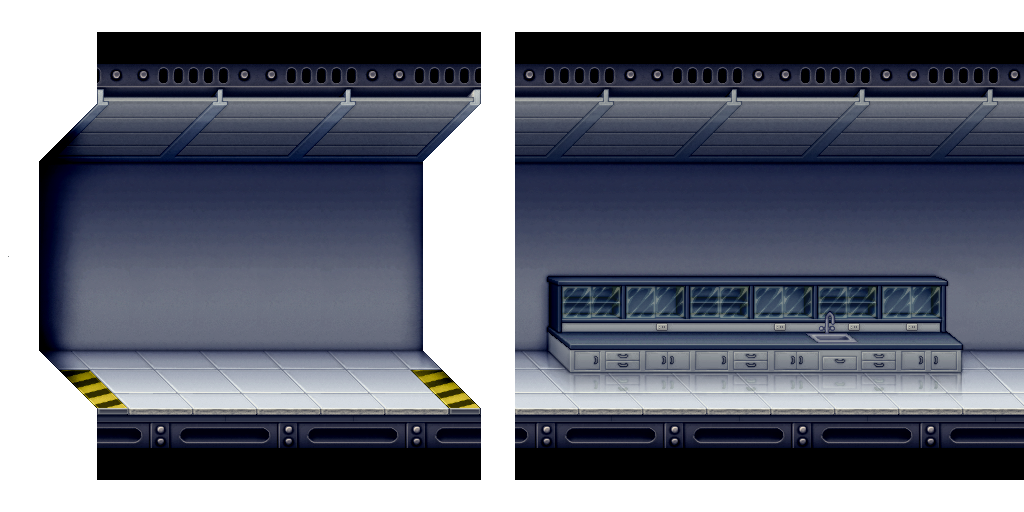
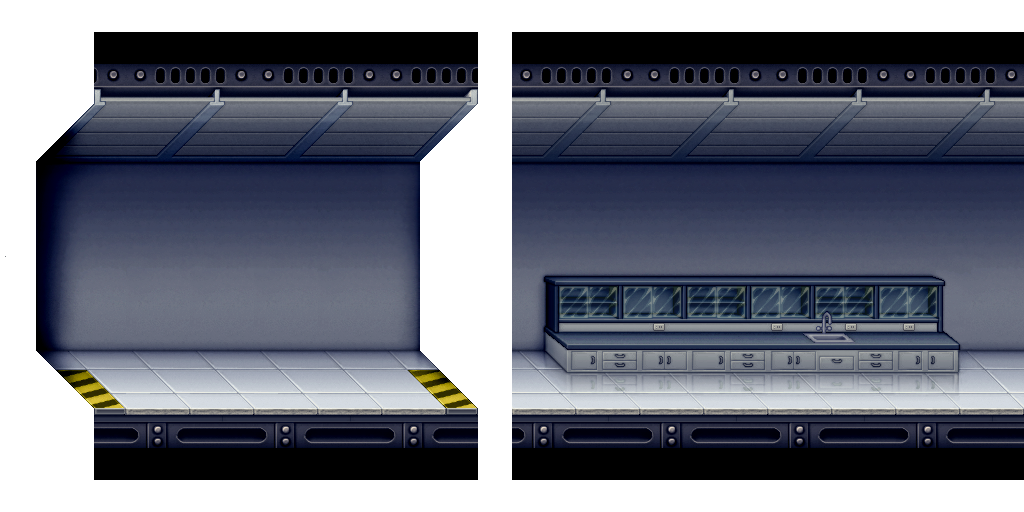
feat: optimize background rendering

diff --git a/src/BackgroundRenderer.cpp b/src/BackgroundRenderer.cpp
@@ -8,6 +8,7 @@ void BackgroundRenderer::Start() {
   currentRoomIndex = 0;
   activePatches.emplace_back(rooms[currentRoomIndex].getStartPatch(), 0,
                              transform.position.y);
+  currentLength = activePatches.back().sprite.getGlobalBounds().width;
 }
 
 BackgroundRenderer::BackgroundRenderer(const std::string& name,
@@ -42,21 +43,23 @@ void BackgroundRenderer::Update() {
             ? WORLD_WIDTH
             : activePatches.back().sprite.getPosition().x +
                   activePatches.back().sprite.getGlobalBounds().width;
-    if (currentRoomIndex < rooms.size()) {
+    if (currentLength < rooms[currentRoomIndex].roomLength) {
       activePatches.emplace_back(rooms[currentRoomIndex].getRandomMainPatch(),
                                  transform.position.x + newPatchX,
                                  transform.position.y);
+      currentLength += activePatches.back().sprite.getGlobalBounds().width;
     } else {
       // Handle room transition
       activePatches.emplace_back(rooms[currentRoomIndex].getEndPatch(),
                                  transform.position.x + newPatchX,
                                  transform.position.y);
-      currentRoomIndex = (currentRoomIndex + 1) % rooms.size();
+      currentRoomIndex = (rand() % (rooms.size() - 1)) + 1;
       activePatches.emplace_back(
           rooms[currentRoomIndex].getStartPatch(),
           transform.position.x + newPatchX +
               activePatches.back().sprite.getGlobalBounds().width - 128,
           transform.position.y);
+      currentLength = activePatches.back().sprite.getGlobalBounds().width;
     }
   }
 }

diff --git a/src/Game.cpp b/src/Game.cpp
@@ -57,13 +57,23 @@ int main() {
   // Initialize rooms
   std::vector<Room> rooms;
 
-  rooms.emplace_back("bgHallway0", sf::IntRect(0, 0, 3 * 128, 512),
+  rooms.emplace_back("bgStart", 128 * 4, sf::IntRect(0, 0, 4 * 128, 512),
+                     sf::IntRect(4 * 128, 0, 128, 512),
+                     std::vector<std::pair<sf::IntRect, float>>{});
+
+  rooms.emplace_back("bgHallway0", 128 * 20, sf::IntRect(0, 0, 3 * 128, 512),
                      sf::IntRect(3 * 128, 0, 128, 512),
                      std::vector<std::pair<sf::IntRect, float>>{
-                         {sf::IntRect(4 * 128, 0, 128, 512), 0.5f},
-                         {sf::IntRect(5 * 128, 0, 128, 512), 0.3f},
-                         {sf::IntRect(6 * 128, 0, 128, 512), 0.15f},
-                         {sf::IntRect(7 * 128, 0, 128, 512), 0.05f}});
+                         {sf::IntRect(4 * 128, 0, 128, 512), 0.4f},
+                         {sf::IntRect(5 * 128, 0, 128, 512), 0.4f},
+                         {sf::IntRect(6 * 128, 0, 128, 512), 0.1f},
+                         {sf::IntRect(7 * 128, 0, 128, 512), 0.1f}});
+
+  rooms.emplace_back("bgLab0", 128 * 20, sf::IntRect(0, 0, 128 * 2, 512),
+                     sf::IntRect(3 * 128, 0, 128, 512),
+                     std::vector<std::pair<sf::IntRect, float>>{
+                         {sf::IntRect(2 * 128, 0, 128, 512), 0.5f},
+                         {sf::IntRect(4 * 128, 0, 4 * 128, 512), 0.5f}});
 
   // Initialize background renderer
   auto backgroundRenderer =

diff --git a/src/Patch.cpp b/src/Patch.cpp
@@ -1,9 +1,9 @@
 #include "Patch.h"
 
-Patch::Patch(const sf::Texture& texture, const sf::IntRect& rect) {
-  sprite.setTexture(texture);
-  sprite.setTextureRect(rect);
-}
+Patch::Patch(const sf::Texture& texture,
+             const sf::IntRect& rect,
+             size_t layerIndex)
+    : layerIndex(layerIndex), sprite(texture, rect) {}
 
 const sf::Sprite& Patch::getSprite() const {
   return sprite;
@@ -11,6 +11,7 @@ const sf::Sprite& Patch::getSprite() const {
 
 ActivePatch::ActivePatch(const Patch& patchTemplate, float x, float y) {
   sprite = patchTemplate.getSprite();
+  layerIndex = patchTemplate.layerIndex;
   sprite.setPosition(x, y);
 }
 
@@ -23,5 +24,5 @@ bool ActivePatch::isOffScreen(float screenWidth) const {
 }
 
 void ActivePatch::Render(GameRenderer& renderer) const {
-  renderer.AddDrawable(0, &sprite);
+  renderer.AddDrawable(layerIndex, &sprite);
 }

diff --git a/src/Room.cpp b/src/Room.cpp
@@ -3,14 +3,16 @@
 #include "AssetManager.h"
 
 Room::Room(const std::string& atlasName,
+           float roomLength,
            const sf::IntRect& startRect,
            const sf::IntRect& endRect,
            const std::vector<std::pair<sf::IntRect, float>>& mainRects)
-    : startPatch(AssetManager::Instance().GetTexture(atlasName), startRect),
-      endPatch(AssetManager::Instance().GetTexture(atlasName), endRect) {
+    : roomLength(roomLength),
+      startPatch(AssetManager::Instance().GetTexture(atlasName), startRect, 0),
+      endPatch(AssetManager::Instance().GetTexture(atlasName), endRect, 1) {
   for (const auto& rect : mainRects) {
     mainPatches.emplace_back(AssetManager::Instance().GetTexture(atlasName),
-                             rect.first);
+                             rect.first, 0);
     probabilities.push_back(rect.second);
   }
 }

diff --git a/include/Patch.h b/include/Patch.h
@@ -6,8 +6,9 @@
 
 class Patch {
  public:
-  Patch(const sf::Texture& texture, const sf::IntRect& rect);
+  Patch(const sf::Texture& texture, const sf::IntRect& rect, size_t layerIndex);
   const sf::Sprite& getSprite() const;
+  size_t layerIndex;
 
  private:
   sf::Sprite sprite;
@@ -21,6 +22,7 @@ class ActivePatch {
   void Render(GameRenderer& renderer) const;
 
   sf::Sprite sprite;
+  size_t layerIndex;
 };
 
 #endif  // PATCH_H

diff --git a/src/AssetManager.cpp b/src/AssetManager.cpp
@@ -12,6 +12,9 @@ void AssetManager::LoadTexture(const std::string& name,
 void AssetManager::Initialize() {
   LoadTexture("barry", "assets/barry.png");
   LoadTexture("bgHallway0", "assets/bgHallway0.png");
+  LoadTexture("bgLab0", "assets/bgLab0.png");
+  LoadTexture("bgGlassTube0", "assets/bgGlassTube0.png");
+  LoadTexture("bgStart", "assets/bgStart.png");
 }
 
 sf::Texture& AssetManager::GetTexture(const std::string& name) {

diff --git a/include/Room.h b/include/Room.h
@@ -8,12 +8,15 @@
 class Room {
  public:
   Room(const std::string& atlasName,
+       float roomLength,
        const sf::IntRect& startRect,
        const sf::IntRect& endRect,
        const std::vector<std::pair<sf::IntRect, float>>& mainRects);
   const Patch& getStartPatch() const;
   const Patch& getEndPatch() const;
   const Patch& getRandomMainPatch() const;
+
+  float roomLength;
 
  private:
   Patch startPatch;

diff --git a/include/BackgroundRenderer.h b/include/BackgroundRenderer.h
@@ -22,6 +22,7 @@ class BackgroundRenderer : public GameObject {
   std::vector<Room> rooms;
   float scrollSpeed;
   size_t currentRoomIndex;
+  float currentLength;
 };
 
 #endif  // BACKGROUNDRENDERER_H

diff --git a/src/Engine/Animator.cpp b/src/Engine/Animator.cpp
@@ -56,5 +56,5 @@ void Animator::Render(GameRenderer& renderer) {
   if (currentAnimation.empty())
     return;
 
-  renderer.AddDrawable(1, &sprite);
+  renderer.AddDrawable(2, &sprite);
 }
